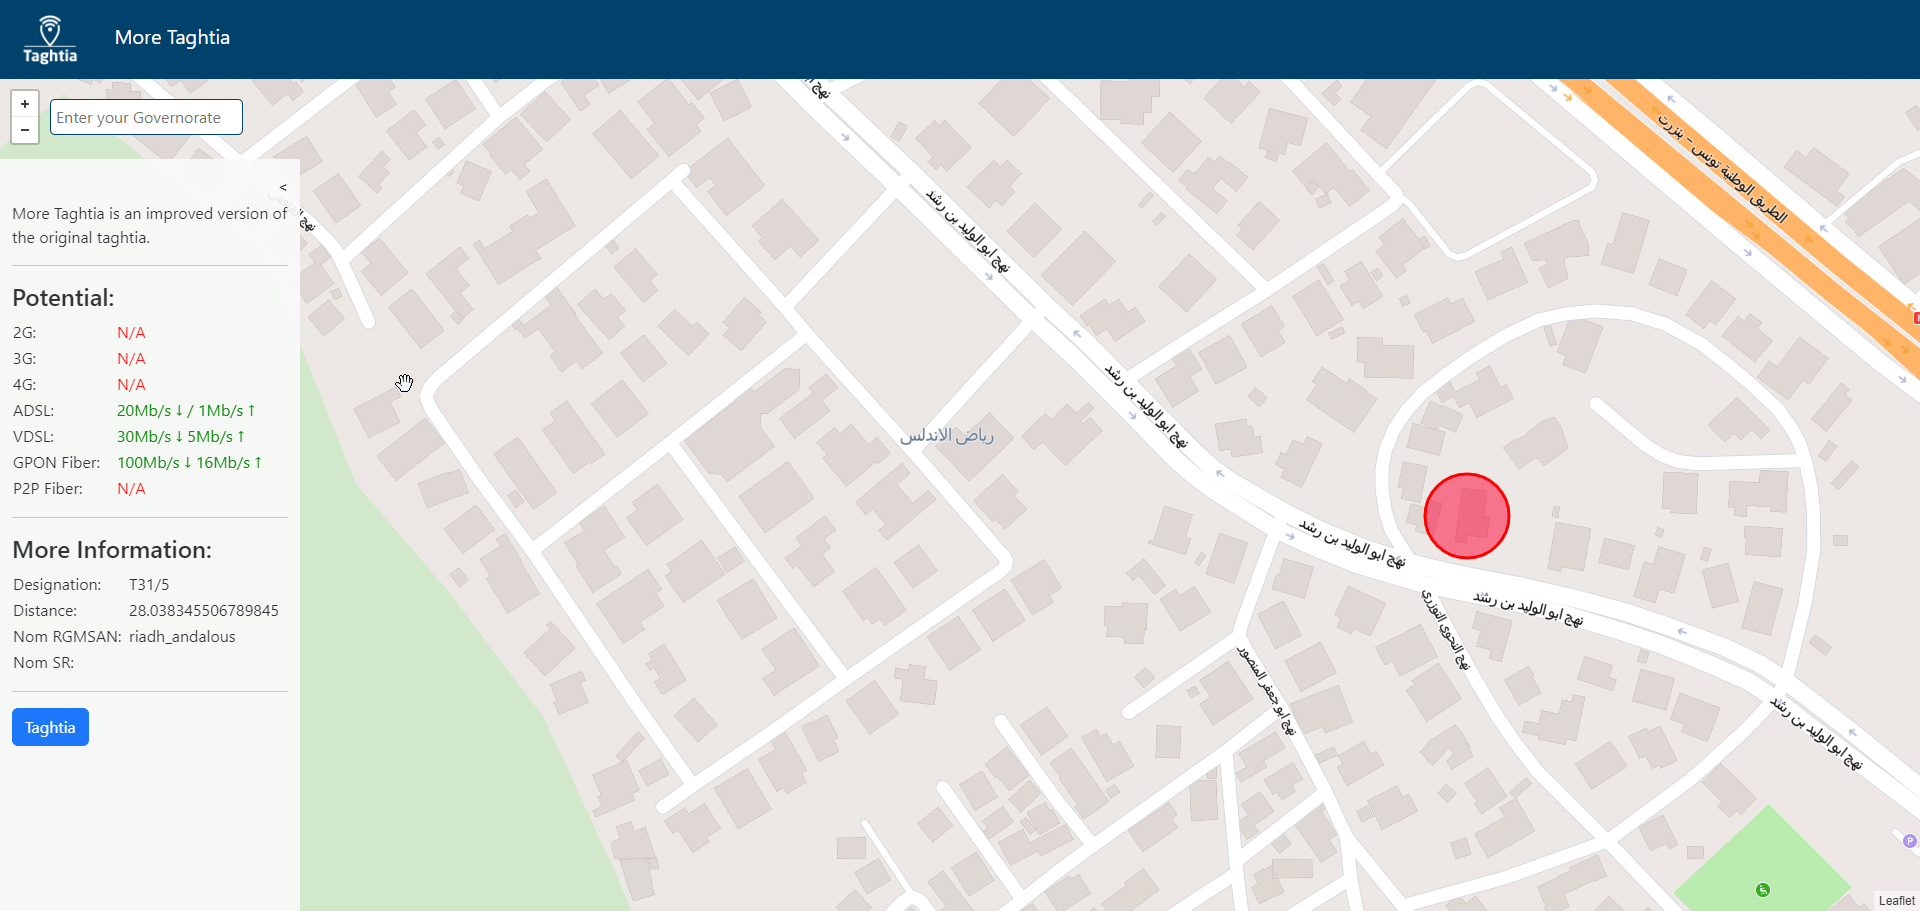
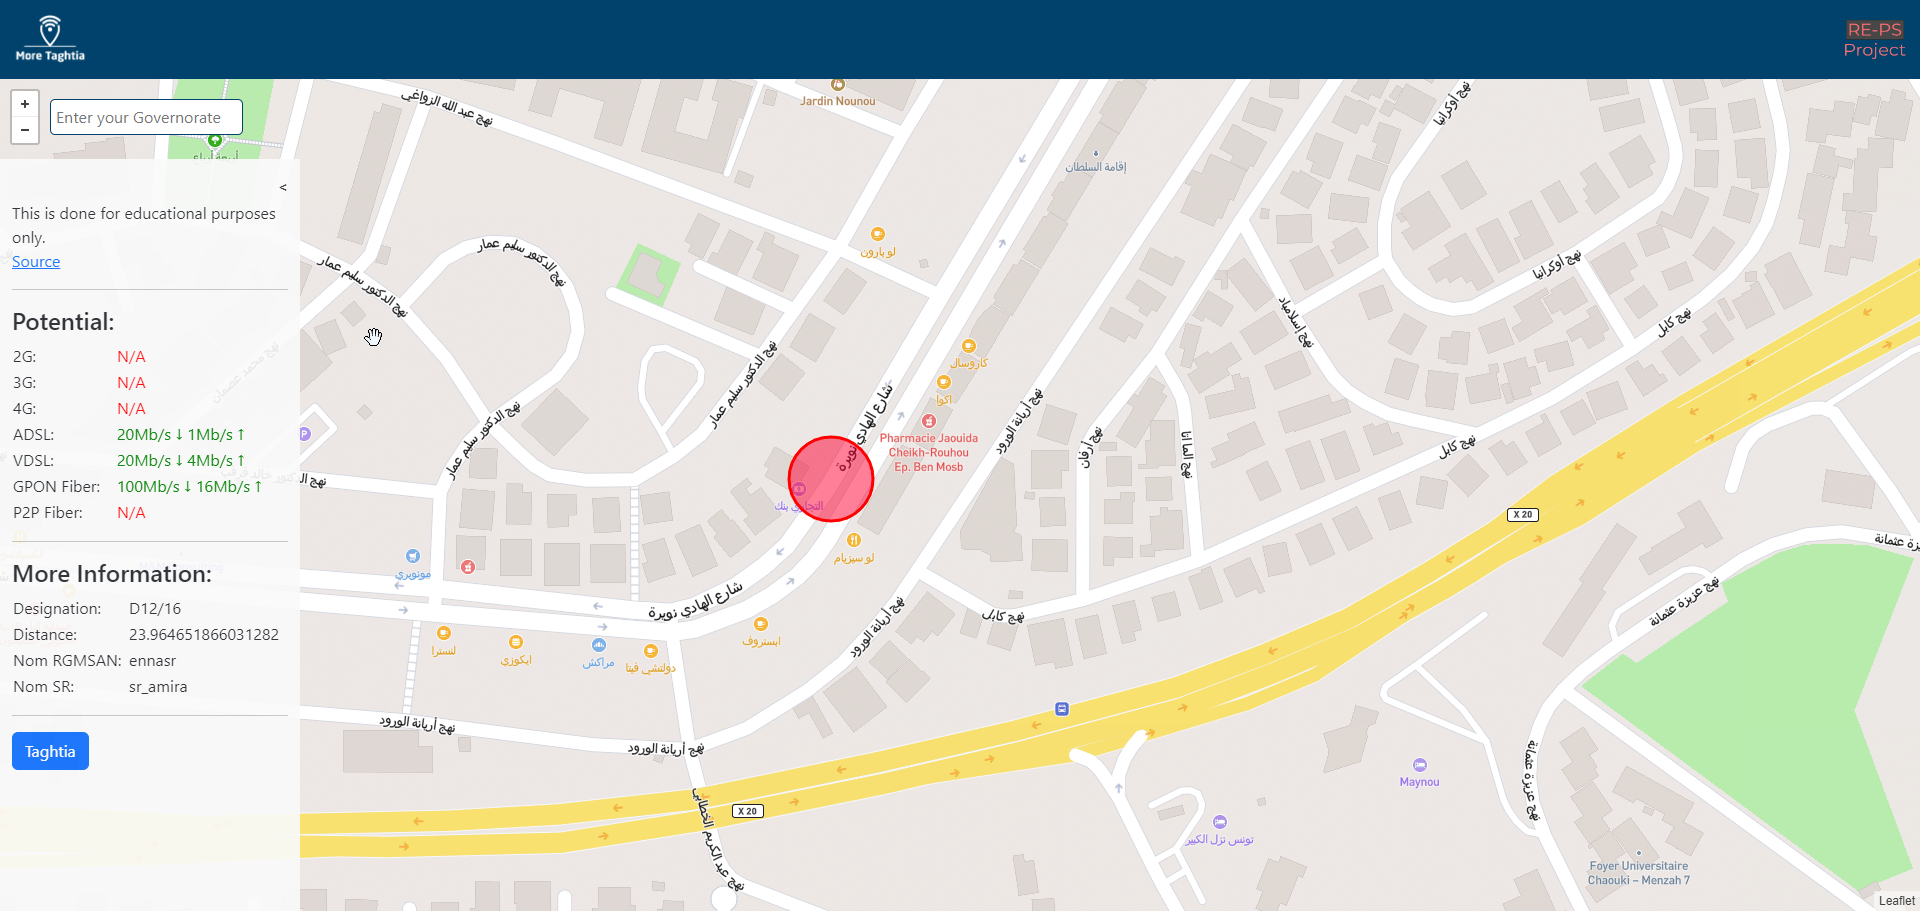
v2
Fixed all issues related to design

diff --git a/index.html b/index.html
@@ -3,7 +3,8 @@
     <head>
     	<meta charset=utf-8 />
     	<meta name='viewport' content='initial-scale=1,maximum-scale=1,user-scalable=no' />
-        <title>Map</title>
+        <link rel="icon" type="image/png" href="TT.png">
+        <title>More Taghtia</title>
         <link href="https://cdn.jsdelivr.net/npm/bootstrap@5.3.2/dist/css/bootstrap.min.css" rel="stylesheet" integrity="sha384-T3c6CoIi6uLrA9TneNEoa7RxnatzjcDSCmG1MXxSR1GAsXEV/Dwwykc2MPK8M2HN" crossorigin="anonymous">
         <script src="https://cdn.jsdelivr.net/npm/bootstrap@5.3.2/dist/js/bootstrap.bundle.min.js" integrity="sha384-C6RzsynM9kWDrMNeT87bh95OGNyZPhcTNXj1NW7RuBCsyN/o0jlpcV8Qyq46cDfL" crossorigin="anonymous"></script>
     	<script src="https://code.jquery.com/jquery-3.7.1.min.js" integrity="sha256-/JqT3SQfawRcv/BIHPThkBvs0OEvtFFmqPF/lYI/Cxo=" crossorigin="anonymous"></script>
@@ -21,8 +22,11 @@
     role="navigation">
     
     <div class="navbar-header">
-        <img src="taghtia.png" alt="taghtia" width="80" height="53" style="margin-left: 10px; margin-right: 10px; margin-top: 5px; margin-bottom: 5px;"/>
+        <a href="#"><img src="taghtia.png" alt="taghtia" width="80" height="53" style="margin-left: 10px; margin-right: 10px; margin-top: 5px; margin-bottom: 5px;"/></a>
     </div>
+    <!-- Put to the rightest side the image -->
+    <a href="https://github.com/Jev1337" target="_blank" style="float: right"><img src="reps.png" alt="reps" width="70" height="53" style="margin-left: 10px; margin-right: 10px; margin-top: 5px; margin-bottom: 5px; float: right;"/></a>
+    
     
    </nav>
    

diff --git a/script.js b/script.js
@@ -1,10 +1,10 @@
 /*global $*/
-/*global L*/
+/*global L
 $.getScript("env.js", function() {
     console.log("environment variables loaded.");
     populateMap();
 });
-
+*/
 /*
  * Initialize Map
  */
@@ -21,7 +21,6 @@ function showMap(err,results) {
         console.error("No results found.");
         return;
     }
-    console.log(results);
       mymap.setView([results.latlng[0], results.latlng[1]], 40);
   }
 
@@ -54,7 +53,6 @@ function addMarker(e){
                 fillColor: '#f03',
                 fillOpacity: 0.5
             }).addTo(mymap);
-    console.log(e.latlng)
     
 }
 
@@ -178,7 +176,6 @@ async function taghtia(){
     var X = coded.xCoded;
     var Y = coded.yCoded;
     var payload = {TaghtiaRequest: {token: token, X: X, Y: Y}};
-    console.log(payload);
     document.getElementById("taghtia").innerHTML = '<span class="spinner-border spinner-border-sm" role="status" aria-hidden="true"></span> Loading...';
     document.getElementById("taghtia").disabled = true;
     var response = await fetch("https://geo.tunisietelecom.tn/rsm/RSMService.svc/TaghtiaUltimate", {
@@ -193,7 +190,6 @@ async function taghtia(){
     var data = await response.json();
     document.getElementById("taghtia").innerHTML = 'Taghtia';
     document.getElementById("taghtia").disabled = false;
-    console.log(data);
     //once we get the response, we will use it to update table datas and show the results
     var result = data.TaghtiaUltimateResult;
     if (result.taghtia2G.Code_taghtia == 200 && result.taghtia2G.Taghtia == "OUI") {

diff --git a/style.css b/style.css
@@ -31,7 +31,7 @@ div#panel {
   position: absolute;
   top: 159px;
   padding-top: 8px;          /* needed to move the content below the gray shadow specified in the header */
-  height: 100%; /* calc is used to substract the height of the navbar */
+  height: calc(100% - 101px);  
   width: 300px;
   background-color: #fafafa;
   opacity: 0.92;
